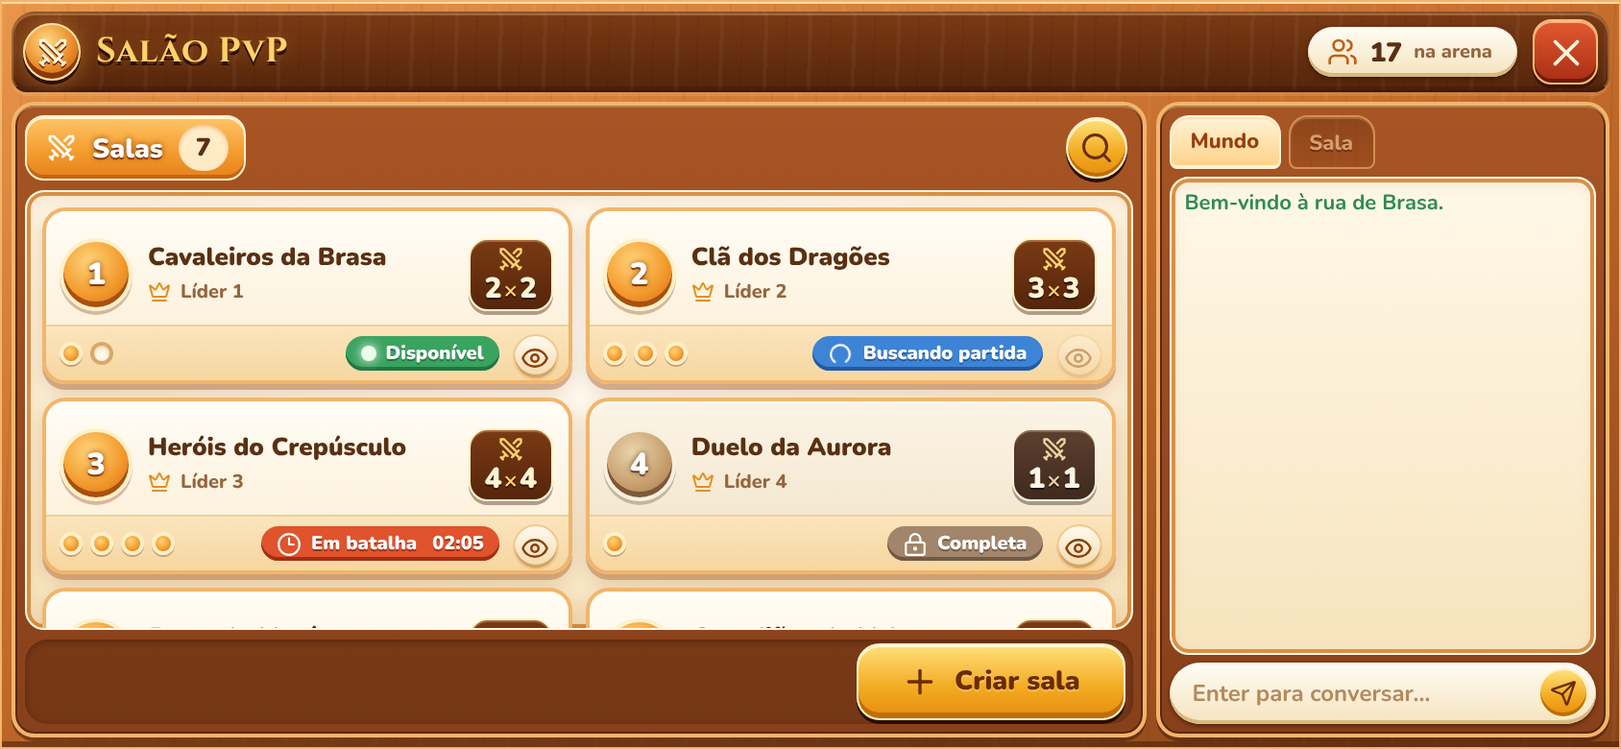
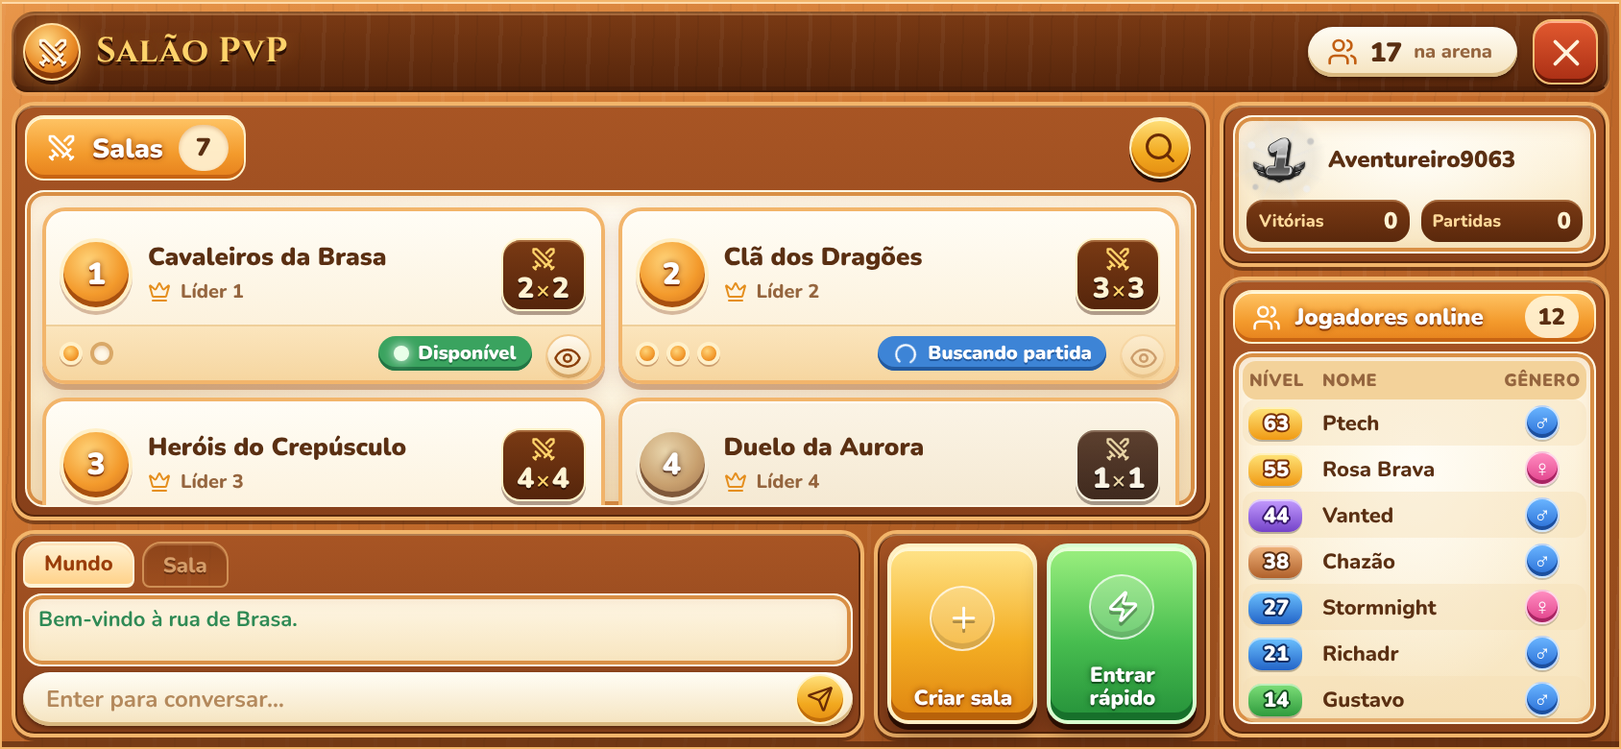
Lay out the PvP hall like DDTank's game hall
Rooms in the centre, chat with big Criar sala / Entrar rapido buttons
below, and a right column with the player's own character and a list of
everyone online (level, name, gender). The server answers a new
online-list command with every connected player, highest level first.

Claude-Session: https://claude.ai/code/session_016cokYZuSYov3BwbyjMp7VU

diff --git a/src/components/ArenaHall.css b/src/components/ArenaHall.css
@@ -20,8 +20,8 @@
 .pvp-hall .hall-population span{font-weight:800;color:var(--wood-ink-soft)}
 
 /* ---------- Corpo ---------- */
-.pvp-hall .hall-body{display:grid;grid-template-columns:minmax(0,1fr) clamp(260px,24vw,360px);gap:8px;min-height:0}
-.pvp-hall .hall-rooms{display:grid;grid-template-rows:42px minmax(0,1fr) 56px;gap:7px;min-width:0;min-height:0;padding:8px}
+.pvp-hall .hall-body{display:grid;grid-template-columns:minmax(0,1fr) clamp(270px,22vw,330px);grid-template-rows:minmax(0,1fr) clamp(150px,23vh,200px);grid-template-areas:"rooms side" "bottom side";gap:8px;min-height:0}
+.pvp-hall .hall-rooms{grid-area:rooms;display:grid;grid-template-rows:42px minmax(0,1fr);gap:7px;min-width:0;min-height:0;padding:8px}
 .pvp-hall .hall-toolbar{display:flex;align-items:center;justify-content:space-between;gap:10px;min-width:0}
 .pvp-hall .hall-tab{display:flex;align-items:center;gap:8px;height:100%;margin:0;padding:0 8px 0 14px;border-radius:10px;font-size:17px;font-weight:900}
 .pvp-hall .hall-tab b{display:grid;place-items:center;min-width:26px;height:24px;padding:0 7px;border-radius:999px;background:#fff4d7e6;box-shadow:inset 0 1px 2px #b8641a55;color:var(--wood-ink);font-size:13px;text-shadow:none}
@@ -81,22 +81,58 @@
 .pvp-hall .hall-empty h3{margin:8px 0 0;font-size:19px;font-weight:900;color:var(--wood-ink)}
 .pvp-hall .hall-empty p{margin:0;font-size:13px;font-weight:700}
 
-/* ---------- Rodapé ---------- */
-.pvp-hall .hall-actions{display:flex;align-items:center;justify-content:space-between;gap:12px;min-width:0;padding:0 6px 0 10px;border-radius:12px;background:#5b2a0e66;box-shadow:inset 0 1px 3px #2c110466}
-.pvp-hall .hall-actions p{margin:0;min-width:0;overflow:hidden;font-size:13px;font-weight:800;color:#ffe2b6;text-overflow:ellipsis;white-space:nowrap;text-shadow:0 1px #3b1806}
-.pvp-hall .hall-create{min-width:170px;height:44px;font-size:16px}
+/* ---------- Faixa de baixo: conversa e botões grandes ---------- */
+.pvp-hall .hall-bottom{grid-area:bottom;display:grid;grid-template-columns:minmax(0,1fr) auto;gap:8px;min-width:0;min-height:0}
+.pvp-hall .hall-chat{min-width:0;min-height:0}
+.pvp-hall .hall-actions{display:grid;grid-auto-flow:column;grid-auto-columns:minmax(0,1fr);gap:8px;min-height:0;padding:8px}
+.pvp-hall .hall-big{display:grid;grid-template-rows:minmax(0,1fr) auto;justify-items:center;align-items:center;gap:4px;width:clamp(112px,9vw,140px);height:100%;min-height:0;padding:10px 8px 9px;border:2px solid #fff0c4;border-radius:14px;background:linear-gradient(#ffe48a,#f4ae24 55%,#df8510);box-shadow:inset 0 2px #fff7d2,inset 0 -4px #b8620a,0 3px #2a0f03,0 6px 12px #1d0a0266;color:#fff;font:900 16px/1.1 'Nunito','Trebuchet MS',sans-serif;text-shadow:0 1px #8a3a07,0 0 3px #8a3a07;cursor:pointer;transition:filter .15s,transform .15s}
+.pvp-hall .hall-quick{border-color:#d9ffd0;background:linear-gradient(#9cf07f,#47bd4f 55%,#25913a);box-shadow:inset 0 2px #e8ffd9,inset 0 -4px #17702b,0 3px #2a0f03,0 6px 12px #1d0a0266;text-shadow:0 1px #12541f,0 0 3px #12541f}
+.pvp-hall .hall-big-icon{display:grid;place-items:center;width:min(58px,100%);aspect-ratio:1;max-height:100%;border:2px solid #ffffffb0;border-radius:50%;background:#ffffff38;box-shadow:inset 0 -3px #0000001f}
+.pvp-hall .hall-big-icon svg{width:55%;height:55%;filter:drop-shadow(0 2px #0000004d)}
+.pvp-hall .hall-big:not(:disabled):hover{filter:brightness(1.06);transform:translateY(-1px)}
+.pvp-hall .hall-big:not(:disabled):active{transform:translateY(1px)}
+.pvp-hall .hall-big:disabled{cursor:default;filter:saturate(.3);opacity:.6}
+.pvp-hall .hall-big:focus-visible{outline:3px solid #fff1c4;outline-offset:2px}
 
-/* ---------- Conversa ---------- */
-.pvp-hall .hall-chat{min-width:0}
+/* ---------- Coluna direita: meu personagem e jogadores online ---------- */
+.pvp-hall .hall-side{grid-area:side;display:grid;grid-template-rows:auto minmax(0,1fr);gap:8px;min-width:0;min-height:0}
+.pvp-hall :is(.hall-me,.hall-online){display:grid;gap:7px;min-height:0;padding:8px}
+.pvp-hall .hall-online{grid-template-rows:36px minmax(0,1fr)}
+.pvp-hall .hall-side-title{display:flex;align-items:center;gap:7px;height:36px;margin:0;white-space:nowrap;overflow:hidden;padding:0 8px 0 13px;border-radius:10px;font-size:15px;font-weight:900}
+.pvp-hall .hall-side-title b{display:grid;place-items:center;min-width:26px;height:22px;margin-left:auto;padding:0 7px;border-radius:999px;background:#fff4d7e6;color:var(--wood-ink);font-size:12px;text-shadow:none}
+.pvp-hall .hall-me-card{display:grid;grid-template-rows:auto minmax(0,1fr) auto;min-height:0;padding:8px 10px 10px;overflow:hidden}
+.pvp-hall .hall-me-head{display:flex;align-items:center;gap:8px;min-width:0}
+.pvp-hall .hall-me-head strong{min-width:0;overflow:hidden;font-size:16px;font-weight:900;color:var(--wood-ink);text-overflow:ellipsis;white-space:nowrap}
+.pvp-hall .hall-me-avatar{display:grid;place-items:center;height:clamp(140px,25vh,220px);overflow:hidden}
+.pvp-hall .hall-me-avatar>*{flex:none;transform:scale(var(--me-scale,1))}
+.pvp-hall .hall-me-stats{display:grid;grid-template-columns:1fr 1fr;gap:6px;margin:0}
+.pvp-hall .hall-me-stats>div{display:flex;align-items:center;justify-content:space-between;gap:6px;min-width:0;height:30px;padding:0 9px;border-radius:9px;background:linear-gradient(#7a3a14,#5a280c);box-shadow:inset 0 1px #ffc78a55}
+.pvp-hall .hall-me-stats dt{display:flex;align-items:center;gap:4px;font-size:11px;font-weight:800;color:#ffd99a}
+.pvp-hall .hall-me-stats dd{margin:0;font-size:15px;font-weight:900;color:#fff4d4}
+.pvp-hall .hall-online-list{display:grid;align-content:start;min-height:0;padding:4px;overflow:auto;overscroll-behavior:contain;scrollbar-width:thin;scrollbar-color:#d98f45 transparent}
+.pvp-hall .hall-online-row{display:grid;grid-template-columns:44px minmax(0,1fr) 46px;align-items:center;gap:6px;height:30px;padding:0 6px;border-radius:7px}
+.pvp-hall .hall-online-row:nth-child(even){background:#f6dfb466}
+.pvp-hall .hall-online-row.is-me{background:#ffd27a80;box-shadow:inset 0 0 0 1px #e9a447}
+.pvp-hall .hall-online-headrow{position:sticky;top:-4px;z-index:1;height:26px;background:#f3d29a!important;font-size:11px;font-weight:900;color:var(--wood-ink-soft);text-transform:uppercase;letter-spacing:.03em}
+.pvp-hall .hall-online-headrow span:last-child,.pvp-hall .hall-online-gender{text-align:center}
+.pvp-hall .hall-online-level{justify-self:start;min-width:34px;padding:2px 5px;border-radius:7px;background:linear-gradient(#a8a8a8,#6f6f6f);box-shadow:inset 0 1px #ffffff80,0 1px #00000040;color:#fff;font-size:13px;font-weight:900;font-style:italic;text-align:center;-webkit-text-stroke:2px #3a3a3a;paint-order:stroke fill}
+.pvp-hall .hall-online-level[data-tier="2"]{background:linear-gradient(#7fe07a,#2f9b3d);-webkit-text-stroke-color:#13501f}
+.pvp-hall .hall-online-level[data-tier="3"]{background:linear-gradient(#6cc2ff,#2364c8);-webkit-text-stroke-color:#0f2f66}
+.pvp-hall .hall-online-level[data-tier="4"]{background:linear-gradient(#f1b47c,#b0612b);-webkit-text-stroke-color:#5a2e12}
+.pvp-hall .hall-online-level[data-tier="5"]{background:linear-gradient(#c49cff,#7443c9);-webkit-text-stroke-color:#38176e}
+.pvp-hall .hall-online-level[data-tier="6"]{background:linear-gradient(#ffe57a,#f09a14);-webkit-text-stroke-color:#7a3207}
+.pvp-hall .hall-online-name{min-width:0;overflow:hidden;font-size:13px;font-weight:800;color:var(--wood-ink);text-overflow:ellipsis;white-space:nowrap}
+.pvp-hall .hall-online-gender{justify-self:center;display:grid;place-items:center;width:22px;height:22px;border:1px solid #ffffffb0;border-radius:50%;background:linear-gradient(#69b4ff,#2a6fd6);box-shadow:inset 0 -2px #1c4f9e,0 1px #00000033;color:#fff;font:900 15px/1 Arial,sans-serif}
+.pvp-hall .hall-online-gender.is-female{background:linear-gradient(#ff8cc0,#e0408a);box-shadow:inset 0 -2px #a82462,0 1px #00000033}
 
 /* ---------- Telas menores ---------- */
 @media(max-width:900px){
- .pvp-hall .hall-body{grid-template-columns:minmax(0,1fr) 240px}
- .pvp-hall .hall-actions p{display:none}
- .pvp-hall .hall-actions{justify-content:flex-end}
+ .pvp-hall .hall-body{grid-template-columns:minmax(0,1fr) 230px}
+ .pvp-hall .hall-big{width:100px;font-size:14px}
 }
 @media(max-width:640px){
- .pvp-hall .hall-body{grid-template-columns:minmax(0,1fr);grid-template-rows:minmax(0,1fr) 190px}
+ .pvp-hall .hall-body{grid-template-columns:minmax(0,1fr);grid-template-rows:minmax(0,1fr) 190px;grid-template-areas:"rooms" "bottom"}
+ .pvp-hall .hall-side{display:none}
  .pvp-hall .hall-population span{display:none}
 }
 
@@ -109,8 +145,8 @@ html.mobile-landscape .pvp-hall .wood-title{font-size:18px}
 html.mobile-landscape .pvp-hall .hall-population{height:26px;font-size:10px}
 html.mobile-landscape .pvp-hall .hall-population strong{font-size:14px}
 html.mobile-landscape .pvp-hall .hall-back{width:34px;height:34px;border-radius:10px}
-html.mobile-landscape .pvp-hall .hall-body{grid-template-columns:minmax(0,1fr) clamp(190px,28vw,250px);grid-template-rows:minmax(0,1fr);gap:5px}
-html.mobile-landscape .pvp-hall .hall-rooms{grid-template-rows:34px minmax(0,1fr) 44px;gap:5px;padding:5px;border-radius:12px}
+html.mobile-landscape .pvp-hall .hall-body{grid-template-columns:minmax(0,1fr) clamp(170px,24vw,220px);grid-template-rows:minmax(0,1fr) 108px;gap:5px}
+html.mobile-landscape .pvp-hall .hall-rooms{grid-template-rows:34px minmax(0,1fr);gap:5px;padding:5px;border-radius:12px}
 html.mobile-landscape .pvp-hall .hall-tab{font-size:14px;padding-left:10px}
 html.mobile-landscape .pvp-hall .hall-search{height:32px}
 html.mobile-landscape .pvp-hall .hall-search-trigger{width:32px;height:32px}
@@ -128,13 +164,30 @@ html.mobile-landscape .pvp-hall .hall-room-seats i{width:12px;height:12px}
 html.mobile-landscape .pvp-hall .hall-room-status{padding:2px 8px;font-size:10px}
 html.mobile-landscape .pvp-hall .hall-spectate{bottom:2px;right:7px;width:24px;height:24px}
 html.mobile-landscape .pvp-hall .hall-room-foot{padding-right:28px}
-html.mobile-landscape .pvp-hall .hall-actions{justify-content:flex-end;padding:0 4px}
-html.mobile-landscape .pvp-hall .hall-actions p{display:none}
-html.mobile-landscape .pvp-hall .hall-create{min-width:140px;height:36px;font-size:14px}
-html.mobile-landscape .pvp-hall .wood-chat{grid-template-rows:28px minmax(0,1fr) 32px;gap:4px;padding:5px;border-radius:12px}
+html.mobile-landscape .pvp-hall .hall-bottom{gap:5px}
+html.mobile-landscape .pvp-hall .hall-actions{gap:5px;padding:5px;border-radius:12px}
+html.mobile-landscape .pvp-hall .hall-big{width:78px;padding:5px 4px;border-radius:11px;font-size:11px}
+html.mobile-landscape .pvp-hall .hall-big-icon{width:34px;border-width:1px}
+html.mobile-landscape .pvp-hall .hall-side{gap:5px}
+html.mobile-landscape .pvp-hall :is(.hall-me,.hall-online){gap:4px;padding:5px;border-radius:12px}
+html.mobile-landscape .pvp-hall .hall-me .hall-side-title,html.mobile-landscape .pvp-hall .hall-me-avatar{display:none}
+html.mobile-landscape .pvp-hall .hall-me-card{grid-template-rows:auto auto;gap:4px;padding:5px 6px}
+html.mobile-landscape .pvp-hall .hall-me-head strong{font-size:12px}
+html.mobile-landscape .pvp-hall .hall-me-stats>div{height:22px;padding:0 6px}
+html.mobile-landscape .pvp-hall .hall-me-stats dt{font-size:9px}
+html.mobile-landscape .pvp-hall .hall-me-stats dt svg{display:none}
+html.mobile-landscape .pvp-hall .hall-me-stats dd{font-size:12px}
+html.mobile-landscape .pvp-hall .hall-online{grid-template-rows:28px minmax(0,1fr)}
+html.mobile-landscape .pvp-hall .hall-side-title{height:28px;padding-left:9px;font-size:12px}
+html.mobile-landscape .pvp-hall .hall-online-row{grid-template-columns:34px minmax(0,1fr) 40px;gap:4px;height:24px;padding:0 3px}
+html.mobile-landscape .pvp-hall .hall-online-headrow{height:20px;font-size:9px}
+html.mobile-landscape .pvp-hall .hall-online-level{min-width:28px;padding:1px 3px;font-size:11px}
+html.mobile-landscape .pvp-hall .hall-online-name{font-size:11px}
+html.mobile-landscape .pvp-hall .hall-online-gender{width:18px;height:18px;font-size:12px}
+html.mobile-landscape .pvp-hall .wood-chat{grid-template-rows:24px minmax(0,1fr) 28px;gap:3px;padding:4px;border-radius:12px}
 html.mobile-landscape .pvp-hall .wood-chat .chat-tabs>button{min-width:0;padding:0 10px;font-size:11px}
 html.mobile-landscape .pvp-hall .wood-chat .chat-messages{padding:5px 7px;font-size:11px}
 html.mobile-landscape .pvp-hall .wood-chat .chat-input>input{font-size:12px}
 html.mobile-landscape .pvp-hall .wood-chat .chat-input>button{width:26px;height:26px}
 
-@media(prefers-reduced-motion:reduce){.pvp-hall .hall-room{transition:none}.pvp-hall .hall-room.is-searching .hall-room-status svg{animation:none}}
+@media(prefers-reduced-motion:reduce){.pvp-hall :is(.hall-room,.hall-big){transition:none}.pvp-hall .hall-room.is-searching .hall-room-status svg{animation:none}}

diff --git a/src/components/ArenaHall.tsx b/src/components/ArenaHall.tsx
@@ -1,20 +1,25 @@
 import {useEffect,useRef,useState} from 'react';
 import {createPortal} from 'react-dom';
-import {Clock3,Crown,Eye,LoaderCircle,LockKeyhole,Plus,Search,Swords,Users,X} from 'lucide-react';
+import {Clock3,Crown,Eye,LoaderCircle,LockKeyhole,Plus,Search,Swords,Trophy,Users,X,Zap} from 'lucide-react';
 import {client,useGame} from '../client';
 import {arenaMatchTime,arenaRooms} from '../arenaHall';
 import {Chat} from './Hud';
+import {Avatar} from './Avatar';
+import {LevelBadge} from './LevelBadge';
 import './ArenaTheme.css';
 import './ArenaHall.css';
 
 export function Arena({onClose}:{onClose:()=>void}){
- const {rooms,status,arenaOnline,offset}=useGame();
+ const {rooms,status,arenaOnline,offset,profile,onlinePlayers,onlineTotal}=useGame();
  const [query,setQuery]=useState(''),[searchOpen,setSearchOpen]=useState(false),[now,setNow]=useState(Date.now);
  const input=useRef<HTMLInputElement>(null),searchButton=useRef<HTMLButtonElement>(null);
  const visible=arenaRooms(rooms,query),online=status==='online',playing=visible.some(room=>room.status==='playing');
  useEffect(()=>{if(!online)return;client.send({type:'arena-presence',open:true});return()=>{if(client.state.status==='online')client.send({type:'arena-presence',open:false});};},[online]);
+ // The online list is a snapshot: refresh it while the hall is open.
+ useEffect(()=>{if(!online)return;const refresh=()=>client.send({type:'online-list'});refresh();const timer=window.setInterval(refresh,10000);return()=>clearInterval(timer);},[online]);
  useEffect(()=>{if(!playing)return;setNow(Date.now());const timer=window.setInterval(()=>setNow(Date.now()),1000);return()=>clearInterval(timer);},[playing]);
  useEffect(()=>{if(searchOpen)input.current?.focus();},[searchOpen]);
+ const quick=visible.find(room=>room.status==='waiting'&&room.players.length<room.openSlots.length);
  const closeSearch=()=>{setQuery('');setSearchOpen(false);searchButton.current?.focus();};
  const content=<section className="arena-screen party-arena arena-hall pvp-hall wood-window" aria-label="Salão PvP">
   <header className="hall-header wood-titlebar"><span className="hall-crest" aria-hidden="true"><Swords size={24}/></span><h1 className="wood-title">Salão PvP</h1><div className="hall-population wood-pill" aria-label={`${arenaOnline} jogadores na arena`}><Users size={16}/><strong>{arenaOnline}</strong><span>na arena</span></div><button className="hall-back wood-close" type="button" aria-label="Sair da arena" title="Voltar à praça" onClick={onClose}><X size={23}/></button></header>
@@ -32,8 +37,30 @@ export function Arena({onClose}:{onClose:()=>void}){
      </button><button type="button" className="hall-spectate" aria-label={`Assistir ${room.name}`} title={watchAvailable?'Assistir à sala':'Sem vaga para espectadores'} disabled={!watchAvailable} onClick={()=>client.send({type:'spectate',roomId:room.id})}><Eye size={15}/></button></div>;
     }):<div className="hall-empty"><Swords size={44} aria-hidden="true"/><h3>{query?'Nenhuma sala encontrada':'Nenhuma sala criada'}</h3><p>{query?'Tente outro nome.':'Crie uma sala e chame a sua equipe.'}</p></div>}
    </div>
-   <footer className="hall-actions"><p>Grupos de 1 a 4 aliados. O tamanho da equipe define o duelo.</p><button type="button" className="hall-create wood-button" disabled={!online} onClick={()=>client.send({type:'create'})}><Plus size={20}/><span>Criar sala</span></button></footer>
-  </section><aside className="hall-chat wood-pane wood-chat" aria-label="Conversa da arena"><Chat/></aside></div>
+
+  </section>
+  <div className="hall-bottom"><aside className="hall-chat wood-pane wood-chat" aria-label="Conversa da arena"><Chat/></aside>
+   <nav className="hall-actions wood-pane" aria-label="Ações do salão">
+    <button type="button" className="hall-big hall-create" disabled={!online} onClick={()=>client.send({type:'create'})}><span className="hall-big-icon"><Plus size={30}/></span><span>Criar sala</span></button>
+    <button type="button" className="hall-big hall-quick" disabled={!online||!quick} title={quick?`Entrar na sala ${quick.number}`:'Nenhuma sala com vaga'} onClick={()=>quick&&client.send({type:'join',roomId:quick.id})}><span className="hall-big-icon"><Zap size={30}/></span><span>Entrar rápido</span></button>
+   </nav></div>
+  <aside className="hall-side" aria-label="Informações do jogador">
+   <section className="hall-me wood-pane" aria-label="Meu personagem">
+    <h2 className="hall-side-title wood-ribbon">Meu personagem</h2>
+    <div className="hall-me-card wood-cream">
+     {profile&&<><div className="hall-me-head"><LevelBadge level={profile.level} size={34}/><strong title={profile.name}>{profile.name}</strong></div>
+     <div className="hall-me-avatar"><Avatar equipment={profile.equipment} size={230} animated={false} auraAnimated showAura centerBody weaponSide={-1} weaponScale={0.72} weaponOffset={18} weaponVerticalOffset={10} groundedShadow/></div>
+     <dl className="hall-me-stats"><div><dt><Trophy size={13}/>Vitórias</dt><dd>{profile.wins}</dd></div><div><dt><Swords size={13}/>Partidas</dt><dd>{profile.matches}</dd></div></dl></>}
+    </div>
+   </section>
+   <section className="hall-online wood-pane" aria-label="Jogadores online">
+    <h2 className="hall-side-title wood-ribbon"><Users size={15} aria-hidden="true"/>Jogadores online<b>{onlineTotal}</b></h2>
+    <div className="hall-online-list wood-cream" role="table" aria-label="Lista de jogadores online">
+     <div className="hall-online-row hall-online-headrow" role="row"><span role="columnheader">Nível</span><span role="columnheader">Nome</span><span role="columnheader">Gênero</span></div>
+     {onlinePlayers.map(player=><div key={player.id} role="row" className={`hall-online-row ${player.id===profile?.id?'is-me':''}`}><span role="cell" className="hall-online-level" data-tier={Math.min(6,Math.floor((player.level-1)/10)+1)}>{player.level}</span><span role="cell" className="hall-online-name" title={player.name}>{player.name}</span><span role="cell" className={`hall-online-gender is-${player.gender}`} aria-label={player.gender==='female'?'Feminino':'Masculino'}>{player.gender==="female"?"♀":"♂"}</span></div>)}
+    </div>
+   </section>
+  </aside></div>
  </section>;
  return createPortal(<div className="arena-hall-portal">{content}</div>,document.body);
 }

diff --git a/server/game.ts b/server/game.ts
@@ -20,7 +20,7 @@ import {createFall,fallPosition,fallVelocity} from '../shared/fall';
 export interface Peer {profile:Profile;send:(event:ServerEvent)=>void;connected:boolean;roomId:string|null;arenaOpen:boolean;channel:number;x:number;y:number;targetX:number;targetY:number;lastSeen:number;lastWalk:number;lastAim?:number;}
 interface PendingImpact {at:number;projectileIndex:number;hits:ShotHit[];mark:TerrainMark;flight?:boolean;fragment?:boolean;}
 interface PendingRoomInvitation {invite:RoomInvitation;playerId:string;}
-const ROOM_INVITE_TTL_MS=60000,ROOM_INVITE_SEND_MS=2000,ROOM_INVITE_PAIR_MS=30000,ROOM_INVITE_LIST_MS=1000;
+const ROOM_INVITE_TTL_MS=60000,ROOM_INVITE_SEND_MS=2000,ROOM_INVITE_PAIR_MS=30000,ROOM_INVITE_LIST_MS=1000,ONLINE_LIST_MS=2000,ONLINE_LIST_LIMIT=100;
 const SPECTATOR_BLOCKED_COMMANDS=new Set<Command['type']>(['ability-loadout','ready','queue','cancel-queue','start','practice-start','bot','room-slot','room-rename','kick','room-spectator-slot','spectator-kick','room-invite','room-invite-list','power','ability','flight','boost','aim','walk','fire','pass','reward-pick','rematch']);
 interface Match {key:string;roomIds:string[];practiceParty?:boolean;invisibilityActivated?:Map<string,number>;pendingPower?:{playerId:string;angle:number;power:number;at:number};state:Battle;terrain:Uint8Array;resolveAt:number;botAt:number;createdAt:number;rewardDeck?:CardPrize[];savingRewards?:boolean;retryRewardsAt?:number;activeShot?:Shot;pendingImpacts?:PendingImpact[];}
 export class Game {
@@ -28,7 +28,7 @@ export class Game {
  // Parties keep their identity throughout a match; opponents are never merged into a room.
  private nextRoomNumber=1;private roomMatches=new Map<string,string>();private queueIds=new Set<string>();private profileChanges=new Set<string>();
  private lastTick=Date.now();private lobbyTick=0;private roomsDirty=false;private arenaPopulation=0;
- private roomInvitations=new Map<string,PendingRoomInvitation>();private inviteSentAt=new Map<string,number>();private invitePairAt=new Map<string,number>();private inviteListAt=new Map<string,number>();
+ private roomInvitations=new Map<string,PendingRoomInvitation>();private inviteSentAt=new Map<string,number>();private invitePairAt=new Map<string,number>();private inviteListAt=new Map<string,number>();private onlineListAt=new Map<string,number>();
  constructor(private store:ProfileStore,private report:(e:unknown)=>void=console.error,private criticalRoll:()=>number=()=>randomInt(1_000_000)/1_000_000){}
  connect(profile:Profile,send:Peer['send']){
   let p=this.peers.get(profile.id);
@@ -102,7 +102,7 @@ export class Game {
    else if(!this.invitationAvailable(pending))this.finishInvitation(pending,'unavailable');
   }
   for(const [key,at] of this.invitePairAt)if(now-at>=ROOM_INVITE_PAIR_MS)this.invitePairAt.delete(key);
-  for(const rates of [this.inviteSentAt,this.inviteListAt])for(const [id,at] of rates)if(now-at>=ROOM_INVITE_PAIR_MS)rates.delete(id);
+  for(const rates of [this.inviteSentAt,this.inviteListAt,this.onlineListAt])for(const [id,at] of rates)if(now-at>=ROOM_INVITE_PAIR_MS)rates.delete(id);
  }
  private invitePlayer(p:Peer,playerId:string){
   this.pruneInvitations();const room=this.invitationRoom(p),now=Date.now(),id=p.profile.id,target=this.peers.get(playerId);
@@ -131,6 +131,12 @@ export class Game {
    if(this.isSpectator(p)&&SPECTATOR_BLOCKED_COMMANDS.has(c.type))throw Error('Você está assistindo. Apenas participantes podem usar esta ação.');
    switch(c.type){
     case 'arena-presence':if(p.arenaOpen!==c.open){p.arenaOpen=c.open;this.publishArenaPopulation();}return;
+    case 'online-list':{
+     // Everyone connected, on any channel, highest level first; the hall shows the list next to the rooms.
+     const now=Date.now();if(now-(this.onlineListAt.get(id)??-Infinity)<ONLINE_LIST_MS)return;this.onlineListAt.set(id,now);
+     const all=[...this.peers.values()].filter(peer=>peer.connected).map(peer=>({id:peer.profile.id,name:peer.profile.name,level:peer.profile.level,gender:peer.profile.gender})).sort((a,b)=>b.level-a.level||a.name.localeCompare(b.name,'pt-BR')||a.id.localeCompare(b.id));
+     this.emit(p,{type:'online-players',players:all.slice(0,ONLINE_LIST_LIMIT),total:all.length});return;
+    }
     case 'room-invite-list':{
      const room=this.invitationRoom(p),now=Date.now();if(now-(this.inviteListAt.get(id)??-Infinity)<ROOM_INVITE_LIST_MS)throw Error('Aguarde um instante antes de atualizar a lista.');this.inviteListAt.set(id,now);
      const players=[...this.peers.values()].filter(peer=>peer.connected&&!peer.roomId&&peer.profile.id!==id).map(peer=>({id:peer.profile.id,name:peer.profile.name,level:peer.profile.level})).sort((a,b)=>a.name.localeCompare(b.name,'pt-BR')||a.id.localeCompare(b.id));

diff --git a/src/client.ts b/src/client.ts
@@ -7,10 +7,10 @@ import type {AbilityEffect,AbilityLoadout} from '../shared/abilities';
 import {AbilityLoadoutQueue} from './abilityLoadout';
 import {readRoomInvite} from './roomInvite';
 import {recoveredImpacts,shotClock} from './game/shotPlayback';
-import type {Battle,ChatLine,Command,LobbyPlayer,Profile,Room,RoomInvitePlayer,RoomInvitation,RoomInviteResult,ServerEvent,Shot,ForgeResult,CompositionResult,ShopResult} from '../shared/protocol';
-export interface State {invitePlayers:RoomInvitePlayer[];inviteListRoomId:string|null;roomInvitations:RoomInvitation[];inviteResults:RoomInviteResult[];abilityLoadoutDraft:AbilityLoadout|null;abilityLoadoutPending:boolean;abilityEffects:AbilityEffect[];impacts:Extract<ServerEvent,{type:'impact'}>[];customizationEquipment:Equipment|null;customizationPending:boolean;status:'connecting'|'online'|'offline'|'replaced';needsCharacter:boolean;creatingCharacter:boolean;profile:Profile|null;players:LobbyPlayer[];rooms:Room[];room:Room|null;battle:Battle|null;chat:ChatLine[];online:number;arenaOnline:number;channel:number;latency:number;offset:number;shot:Shot|null;shotReceivedAt:number;shotBaseline:Record<string,{x:number;y:number;hp:number}>;error:string|null;forgeResult:ForgeResult|null;compositionResult:CompositionResult|null;shopResult:ShopResult|null;}
+import type {Battle,ChatLine,Command,LobbyPlayer,OnlinePlayer,Profile,Room,RoomInvitePlayer,RoomInvitation,RoomInviteResult,ServerEvent,Shot,ForgeResult,CompositionResult,ShopResult} from '../shared/protocol';
+export interface State {onlinePlayers:OnlinePlayer[];onlineTotal:number;invitePlayers:RoomInvitePlayer[];inviteListRoomId:string|null;roomInvitations:RoomInvitation[];inviteResults:RoomInviteResult[];abilityLoadoutDraft:AbilityLoadout|null;abilityLoadoutPending:boolean;abilityEffects:AbilityEffect[];impacts:Extract<ServerEvent,{type:'impact'}>[];customizationEquipment:Equipment|null;customizationPending:boolean;status:'connecting'|'online'|'offline'|'replaced';needsCharacter:boolean;creatingCharacter:boolean;profile:Profile|null;players:LobbyPlayer[];rooms:Room[];room:Room|null;battle:Battle|null;chat:ChatLine[];online:number;arenaOnline:number;channel:number;latency:number;offset:number;shot:Shot|null;shotReceivedAt:number;shotBaseline:Record<string,{x:number;y:number;hp:number}>;error:string|null;forgeResult:ForgeResult|null;compositionResult:CompositionResult|null;shopResult:ShopResult|null;}
 class Client {
- state:State={invitePlayers:[],inviteListRoomId:null,roomInvitations:[],inviteResults:[],abilityLoadoutDraft:null,abilityLoadoutPending:false,abilityEffects:[],impacts:[],customizationEquipment:null,customizationPending:false,status:'connecting',needsCharacter:false,creatingCharacter:false,profile:null,players:[],rooms:[],room:null,battle:null,chat:[],online:0,arenaOnline:0,channel:1,latency:0,offset:0,shot:null,shotReceivedAt:0,shotBaseline:{},error:null,forgeResult:null,compositionResult:null,shopResult:null};
+ state:State={onlinePlayers:[],onlineTotal:0,invitePlayers:[],inviteListRoomId:null,roomInvitations:[],inviteResults:[],abilityLoadoutDraft:null,abilityLoadoutPending:false,abilityEffects:[],impacts:[],customizationEquipment:null,customizationPending:false,status:'connecting',needsCharacter:false,creatingCharacter:false,profile:null,players:[],rooms:[],room:null,battle:null,chat:[],online:0,arenaOnline:0,channel:1,latency:0,offset:0,shot:null,shotReceivedAt:0,shotBaseline:{},error:null,forgeResult:null,compositionResult:null,shopResult:null};
  private listeners=new Set<()=>void>();private ws:WebSocket|null=null;private started=false;private retry=0;private reconnectTimer=0;private pingTimer=0;
  private loadoutTimer=0;
  private inviteHandled=false;
@@ -67,6 +67,7 @@ class Client {
   case 'lobby':this.update({players:e.players,online:e.online});break;
   case 'rooms':this.update({rooms:e.rooms});break;
   case 'arena-population':this.update({arenaOnline:e.count});break;
+  case 'online-players':this.update({onlinePlayers:e.players,onlineTotal:e.total});break;
   case 'room-invite-list':if(this.state.room?.id===e.roomId)this.update({invitePlayers:e.players,inviteListRoomId:e.roomId});break;
   case 'room-invitation':if(!this.state.room&&!this.state.battle&&e.invite.expiresAt>Date.now()+this.state.offset)this.update({roomInvitations:[...this.state.roomInvitations.filter(invite=>invite.id!==e.invite.id),e.invite].slice(-5)});break;
   case 'room-invite-result':this.update({inviteResults:[...this.state.inviteResults.slice(-19),e],...(e.status!=='sent'?{roomInvitations:this.state.roomInvitations.filter(invite=>invite.id!==e.inviteId)}:{})});break;

diff --git a/shared/protocol.ts b/shared/protocol.ts
@@ -17,6 +17,7 @@ export interface Seat {id:string;name:string;level:number;equipment:Equipment;re
 export interface RoomSpectator {id:string;name:string;level:number;slot:0|1;connected:boolean;}
 export interface Room {id:string;number:number;name:string;hostId:string;mode:RoomMode;openSlots:number[];map:MapId;status:'waiting'|'searching'|'playing';players:Seat[];spectatorSlots?:number[];spectators?:RoomSpectator[];practice?:boolean;matchStartedAt?:number;searchStartedAt?:number;}
 export interface RoomInvitePlayer {id:string;name:string;level:number;}
+export interface OnlinePlayer {id:string;name:string;level:number;gender:CharacterGender;}
 export interface RoomInvitation {id:string;roomId:string;roomNumber:number;roomName:string;fromId:string;fromName:string;expiresAt:number;}
 export interface RoomInviteResult {inviteId:string;playerId:string;roomId:string;status:'sent'|'accepted'|'declined'|'expired'|'unavailable';message?:string;}
 export interface Fighter extends Seat {x:number;y:number;hp:number;maxHp:number;stamina:number;maxStamina:number;facing:1|-1;boosts:BoostId[];aimAngle?:number;aimSlope?:number;chargePower?:number;charging?:boolean;powerCharge?:number;powerArmed?:boolean;abilities?:Record<AbilityId,number>;homingArmed?:boolean;flightArmed?:boolean;invisibleTurns?:number;hidden?:boolean;fall?:FighterFall;}
@@ -42,6 +43,7 @@ export const equipmentSelectionSchema=z.object({
 export const stoneSelectionSchema=z.record(z.string().regex(/^[1-5]$/),z.number().int().min(0).max(MAX_FORGE_STONES)).refine(stones=>{const count=Object.values(stones).reduce((sum,n)=>sum+n,0);return count>=1&&count<=MAX_FORGE_STONES;},'Selecione de 1 a 20 pedras.');
 export const commandSchema=z.discriminatedUnion('type',[
  z.object({type:z.literal('arena-presence'),open:z.boolean()}).strict(),
+ z.object({type:z.literal('online-list')}).strict(),
  z.object({type:z.literal('move'),x:finite(LOBBY_WALK.minX,LOBBY_WALK.maxX),y:finite(LOBBY_WALK.minY,LOBBY_WALK.maxY)}),
  z.object({type:z.literal('rename'),name}),
  z.object({type:z.literal('equip'),item:z.string().max(40)}).strict(),
@@ -88,6 +90,7 @@ export type ServerEvent =
  | {type:'lobby';players:LobbyPlayer[];online:number}
  | {type:'rooms';rooms:Room[]}
  | {type:'arena-population';count:number}
+ | {type:'online-players';players:OnlinePlayer[];total:number}
  | {type:'room-invite-list';roomId:string;players:RoomInvitePlayer[]}
  | {type:'room-invitation';invite:RoomInvitation}
  | ({type:'room-invite-result'} & RoomInviteResult)

diff --git a/tests/online-players.test.ts b/tests/online-players.test.ts
@@ -1,0 +1,23 @@
+import assert from 'node:assert/strict';
+import {randomUUID} from 'node:crypto';
+import {test} from 'node:test';
+import {Game} from '../server/game';
+import {normalizeProfile} from '../server/store';
+import type {ProfileStore} from '../server/store';
+import {commandSchema} from '../shared/protocol';
+import type {Profile,ServerEvent} from '../shared/protocol';
+
+test('online-list is strict and returns every connected player, highest level first, rate limited',async()=>{
+ assert.equal(commandSchema.safeParse({type:'online-list'}).success,true);
+ assert.equal(commandSchema.safeParse({type:'online-list',channel:2}).success,false);
+ const profiles=new Map<string,Profile>(),events=new Map<string,ServerEvent[]>(),game=new Game({getProfile:async(id:string)=>profiles.get(id)??null,finishMatch:async()=>{}} as unknown as ProfileStore);
+ const players=[3,12,7].map((level,index)=>({...normalizeProfile({id:randomUUID(),name:`Online ${index}`,gender:index===1?'female':'male'}),level}));
+ for(const profile of players){profiles.set(profile.id,profile);events.set(profile.id,[]);game.connect(profile,event=>events.get(profile.id)!.push(structuredClone(event)));}
+ game.peers.get(players[2].id)!.channel=2;await game.command(players[2].id,{type:'create'});
+ game.disconnect(players[0].id);
+ const lists=()=>events.get(players[1].id)!.filter((event):event is Extract<ServerEvent,{type:'online-players'}>=>event.type==='online-players');
+ await game.command(players[1].id,{type:'online-list'});
+ const list=lists().at(-1)!;assert.equal(list.total,2);
+ assert.deepEqual(list.players,[{id:players[1].id,name:'Online 1',level:12,gender:'female'},{id:players[2].id,name:'Online 2',level:7,gender:'male'}]);
+ await game.command(players[1].id,{type:'online-list'});assert.equal(lists().length,1);
+});
